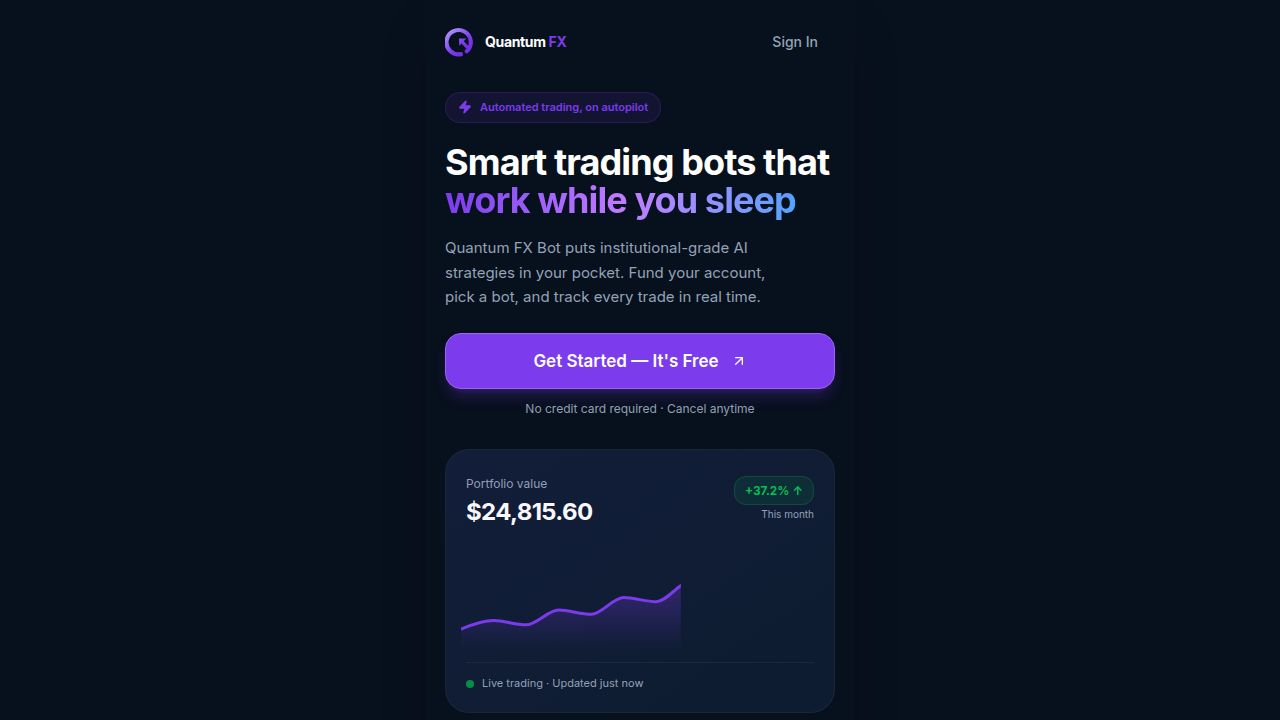
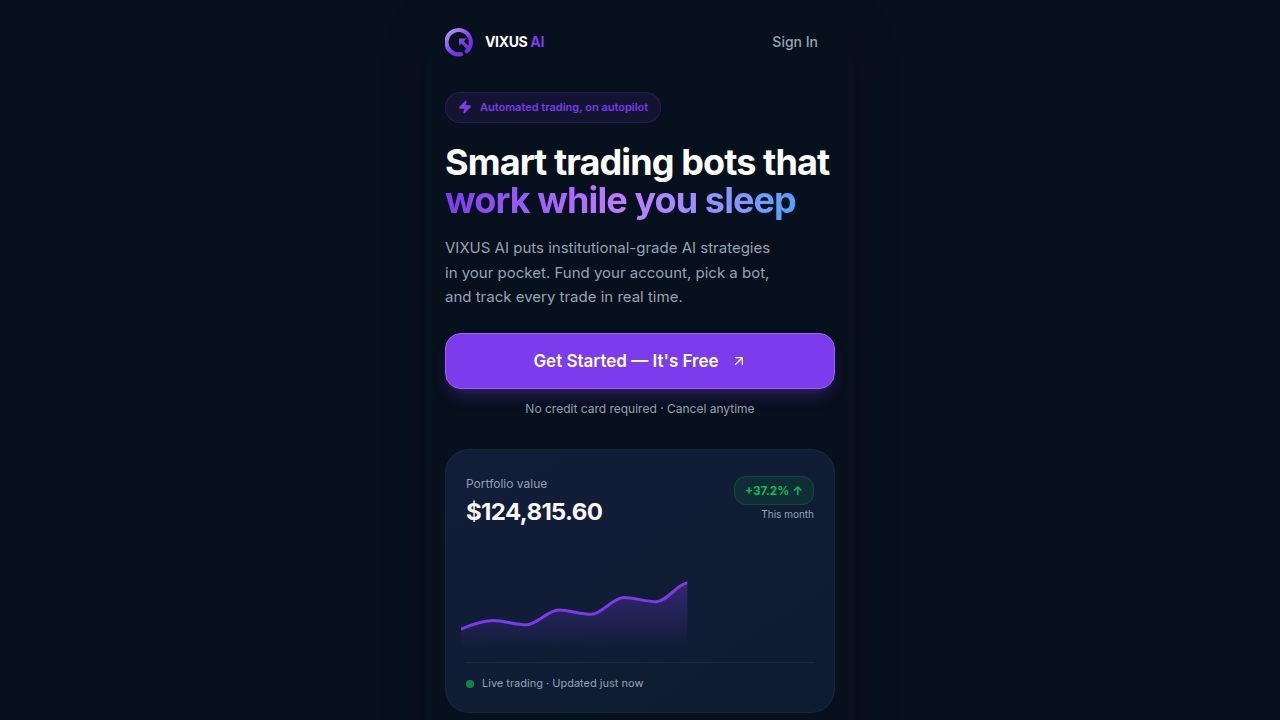
Update database connection to use Neon.tech
Modify database connection logic to prioritize NEON_DATABASE_URL, falling back to DATABASE_URL, and update error messaging.

Replit-Commit-Author: Agent
Replit-Commit-Session-Id: cf748b99-e335-474b-bce2-533148470171
Replit-Commit-Checkpoint-Type: full_checkpoint
Replit-Commit-Event-Id: c59e13ec-6f45-4c82-b802-727bf579730d
Replit-Commit-Screenshot-Url: https://storage.googleapis.com/screenshot-production-us-central1/3863cfd0-df98-4639-8679-98d377d132e6/cf748b99-e335-474b-bce2-533148470171/k9Z27u2
Replit-Helium-Checkpoint-Created: true

diff --git a/lib/db/src/index.ts b/lib/db/src/index.ts
@@ -4,13 +4,15 @@ import * as schema from "./schema";
 
 const { Pool } = pg;
 
-if (!process.env.DATABASE_URL) {
+const connectionString = process.env.NEON_DATABASE_URL ?? process.env.DATABASE_URL;
+
+if (!connectionString) {
   throw new Error(
-    "DATABASE_URL must be set. Did you forget to provision a database?",
+    "NEON_DATABASE_URL or DATABASE_URL must be set. Did you forget to provision a database?",
   );
 }
 
-export const pool = new Pool({ connectionString: process.env.DATABASE_URL });
+export const pool = new Pool({ connectionString });
 export const db = drizzle(pool, { schema });
 
 export * from "./schema";